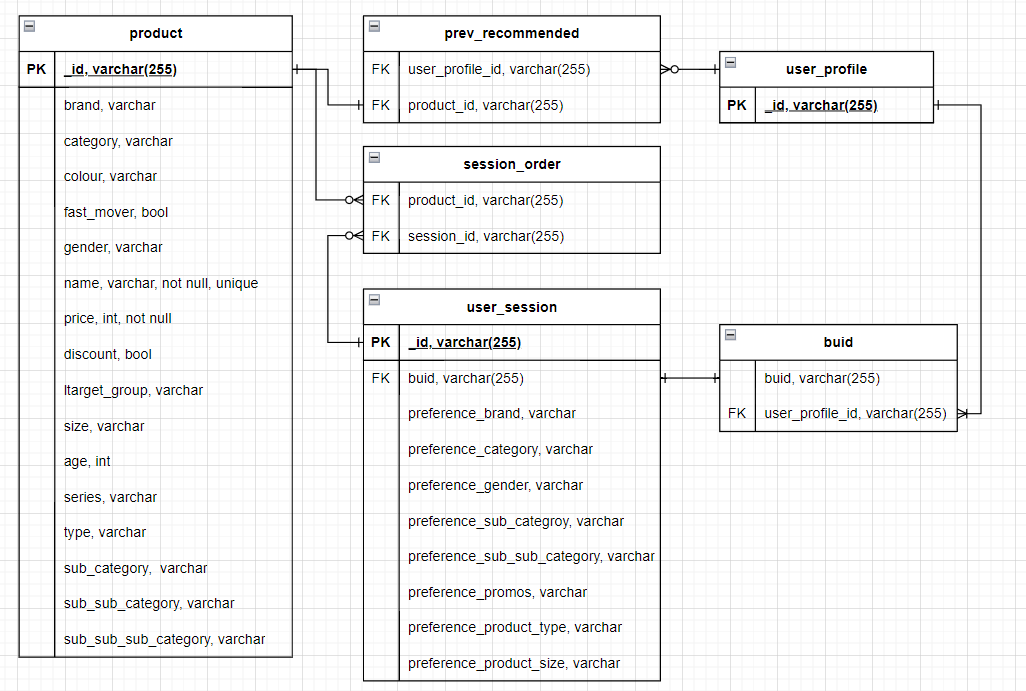
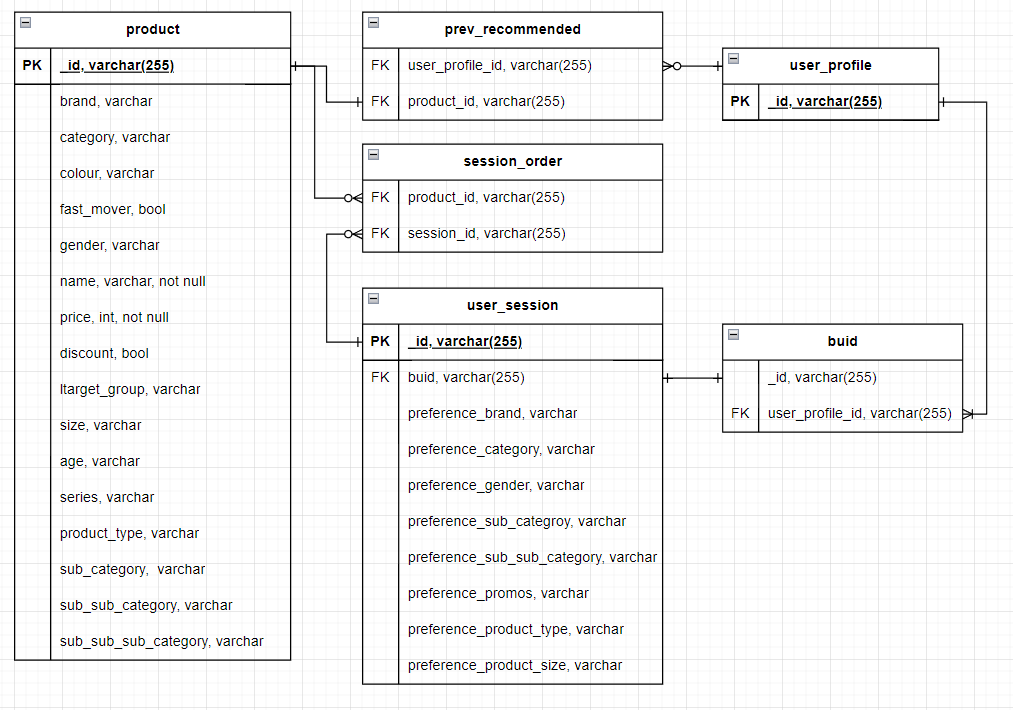
Updated ERD, Updated var names

Changed region(s): [[0.0, 0.0, 0.9793, 1.0]]

diff --git a/postgre_functions.py b/postgre_functions.py
@@ -73,11 +73,11 @@ def profiles_to_postgre(cursor, profiles, connection):
         None:
 
     """
-    # We need all the buids to only append order values that are still valid within our database.
+    # We need all the buids to only append buid values that are still valid within our database.
     cursor.execute("SELECT _id FROM buid")
     buids = cursor.fetchall()
     # Here we make a list from a big list with tuples
-    buid_values = [product[0] for product in buids]
+    buid_values = [bu_id[0] for bu_id in buids]
 
     # first create a row in the profile, then create rows for every previously recommended (see ERD.png)
     for profile in profiles:
@@ -87,7 +87,7 @@ def profiles_to_postgre(cursor, profiles, connection):
             for item in profile['previously_recommended']:
                 # check if product is recommendable
                 cursor.execute(f"SELECT * FROM product WHERE _id = '{item}'")
-                # Checks if the cursor fetch is bigger then 0.
+                # Checks if the cursor fetch is bigger than 0.
                 if len(cursor.fetchall()) > 0:
                     cursor.execute("INSERT INTO prev_recommended (user_profile_id, product_id) VALUES (%s, %s)", (profile['_id'], item))
 

diff --git a/data_transfer.py b/data_transfer.py
@@ -119,10 +119,10 @@ if __name__ == "__main__":
     # handle_products(mongo_db, postgre_cursor, postgre_connection)
 
     # Transfer profiles
-    handle_profiles(mongo_db, postgre_cursor, postgre_connection)
+    # handle_profiles(mongo_db, postgre_cursor, postgre_connection)
 
     # Transfer sessions
-    # handle_sessions(mongo_db, postgre_cursor, postgre_connection)
+    handle_sessions(mongo_db, postgre_cursor, postgre_connection)
 
     # Save data manipulation in postgre and close postgreDB
     postgre_functions.close_postgre(postgre_cursor, postgre_connection)  
